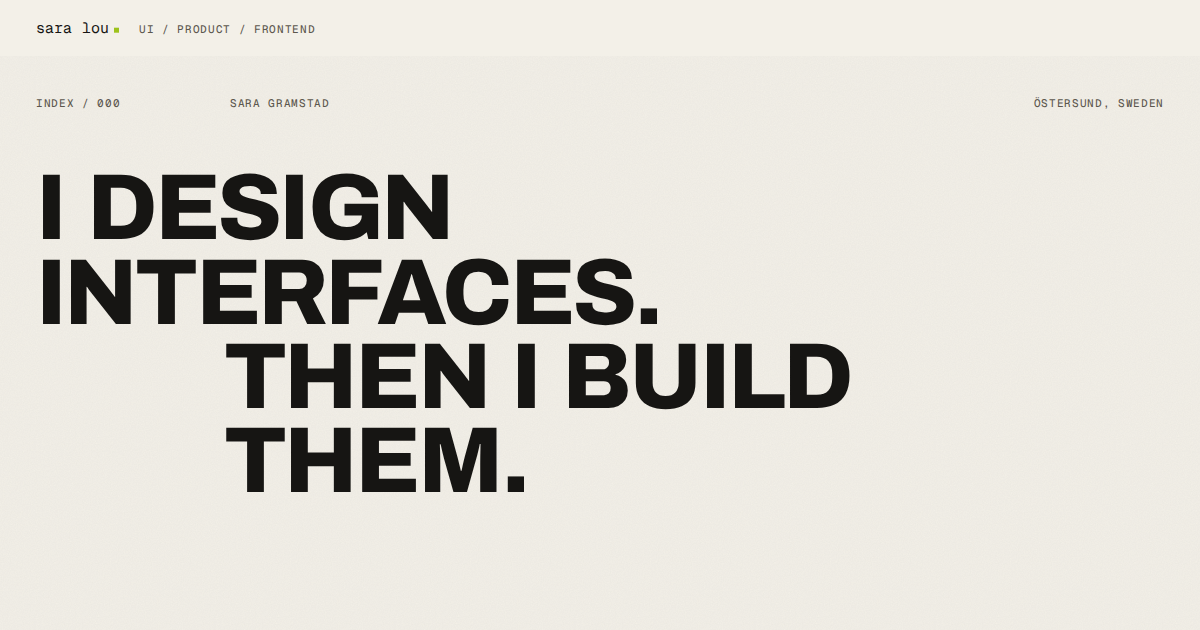
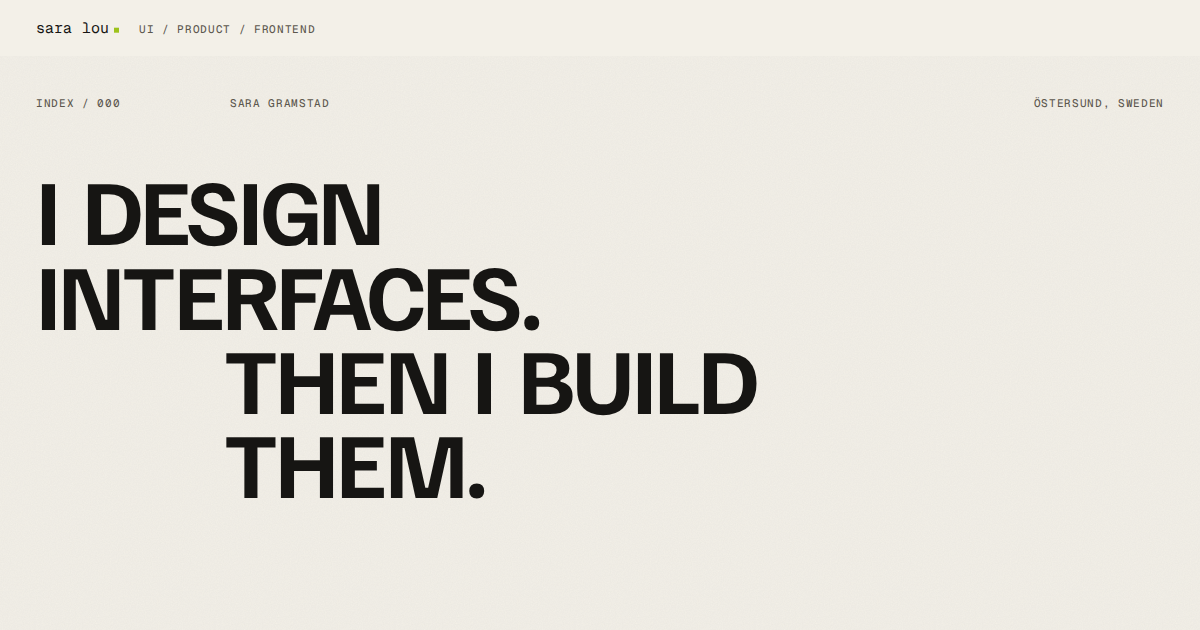
Swap display font to Familjen Grotesk Bold (free stand-in for Mabry)
Archivo read too wide; Familjen Grotesk 700 is narrower with the same
slightly odd, notched character as Mabry. Preload the 11.8 KB latin
woff2, regenerate the OG image, and update BRAND/README. The OG
description now matches the current hero line.

Claude-Session: https://claude.ai/code/session_011K1qsvehvz2pY9Y4J7gqbK

Changed region(s): [[0.0308, 0.2714, 0.7092, 0.8143]]

diff --git a/src/styles/globals.css b/src/styles/globals.css
@@ -2,7 +2,7 @@
 @import 'tw-animate-css';
 @import '@fontsource-variable/geist/wght.css';
 @import '@fontsource-variable/geist-mono/wght.css';
-@import '@fontsource-variable/archivo/wght.css';
+@import '@fontsource/familjen-grotesk/700.css';
 
 /* ==========================================================================
    Design tokens
@@ -112,7 +112,7 @@
   --spacing-nudge: var(--nudge);
 
   /* Type families: a bold grotesk for display, sans for reading, mono for the system voice */
-  --font-display: 'Archivo Variable', 'Arial Black', ui-sans-serif, system-ui, sans-serif;
+  --font-display: 'Familjen Grotesk', 'Helvetica Neue', Arial, ui-sans-serif, sans-serif; /* free stand-in for Mabry Bold */
   --font-sans: 'Geist Variable', ui-sans-serif, system-ui, sans-serif;
   --font-mono: 'Geist Mono Variable', ui-monospace, 'SF Mono', Menlo, monospace;
 
@@ -281,7 +281,7 @@
 /* The display voice: bold uppercase grotesk. Pair with a text-display-* size. */
 @utility type-display {
   font-family: var(--font-display);
-  font-weight: 800;
+  font-weight: 700;
   text-transform: uppercase;
   font-kerning: normal;
   word-spacing: 0.08em; /* bold caps with tight tracking swallow their word spaces */

diff --git a/src/components/ui/button.tsx b/src/components/ui/button.tsx
@@ -7,7 +7,7 @@ import { cn } from '@/lib/utils'
 const buttonVariants = cva(
   [
     'group/button relative inline-flex shrink-0 cursor-pointer items-center justify-center gap-2 whitespace-nowrap select-none',
-    'rounded-full font-display font-extrabold uppercase tracking-[-0.005em] [word-spacing:0.12em]',
+    'rounded-full font-display font-bold uppercase tracking-[-0.005em] [word-spacing:0.12em]',
     'transition-[background-color,color,border-color,transform] duration-fast ease-out-soft',
     // a small, mechanical snap on press
     'active:translate-y-px active:scale-[0.98] disabled:pointer-events-none disabled:opacity-50',

diff --git a/src/components/layout/site-footer.tsx b/src/components/layout/site-footer.tsx
@@ -76,7 +76,7 @@ export function SiteFooter() {
           <h2 className="type-label text-ink-muted">Colophon</h2>
           <p className="mt-4 max-w-sm text-small text-ink-muted">
             Built with React, TypeScript, Vite, Tailwind and a little GSAP. Set in{' '}
-            <span className="font-display font-extrabold text-ink uppercase">Archivo</span>, Geist and{' '}
+            <span className="font-display font-bold text-ink uppercase">Familjen Grotesk</span>, Geist and{' '}
             <span className="font-mono text-[0.9em] text-ink">Geist Mono</span>.
           </p>
         </div>

diff --git a/index.html b/index.html
@@ -12,7 +12,7 @@
     <meta property="og:type" content="website" />
     <meta property="og:site_name" content="sara lou" />
     <meta property="og:title" content="sara lou — UI / Product / Frontend" />
-    <meta property="og:description" content="Sara Gramstad. Designer. Builder. Detail person." />
+    <meta property="og:description" content="Sara Gramstad. I design interfaces. Then I build them." />
     <meta property="og:image" content="%BASE_URL%og.png" />
     <meta name="twitter:card" content="summary_large_image" />
     <link rel="icon" type="image/svg+xml" href="/favicon.svg" />

diff --git a/vite.config.ts b/vite.config.ts
@@ -36,7 +36,7 @@ export default defineConfig({
   plugins: [
     react(),
     tailwindcss(),
-    preloadCriticalFonts([/archivo-latin-wght-normal/, /geist-latin-wght-normal/]),
+    preloadCriticalFonts([/familjen-grotesk-latin-700-normal/, /geist-latin-wght-normal/]),
   ],
   resolve: {
     alias: { '@': fileURLToPath(new URL('./src', import.meta.url)) },

diff --git a/BRAND.md b/BRAND.md
@@ -3,7 +3,7 @@
 > A small, very well-made corner of the internet belonging to Sara Gramstad.
 > A little precise. A little strange. Not trying to impress you.
 
-**v3:** the serif is gone. Instrument Serif read as "2020 soft creative director", so display type is now **Archivo, extra-bold, uppercase**, taking its cue from Designlab's CTA blocks without the blue. The contact section is a solid ink block with an acid pill button. And every line on the site went through a bullshit audit (see Voice).
+**v3:** the serif is gone. Instrument Serif read as "2020 soft creative director", so display type is now **Familjen Grotesk Bold, uppercase** (a free stand-in for Mabry Bold; Archivo was tried first and was too wide), taking its cue from Designlab's CTA blocks without the blue. The contact section is a solid ink block with an acid pill button. And every line on the site went through a bullshit audit (see Voice).
 
 **v2 was a correction.** v1 drifted soft: a cute serif wordmark, a pastel dot, slogans ("details, yes · ceremony, no"), a sign-off like a café menu. v2 returns to what was actually distinctive, the intro screen:
 
@@ -95,7 +95,7 @@ The green should feel almost accidental: a tiny LED, one active state, one hover
 
 ## Typography
 
-- **Archivo, 800, UPPERCASE** (`type-display`): headlines, project titles, buttons. Bold, plain, slightly wide, like a label on a box
+- **Familjen Grotesk, 700, UPPERCASE** (`type-display`): headlines, project titles, buttons. Bold, slightly odd, notched corners. To switch to Mabry Bold with a web licence, change `--font-display` and the font import
 - **Geist Mono:** the name, the system voice, every number
 - **Geist:** reading
 
@@ -123,4 +123,4 @@ Quick, exact, slightly mechanical. Short durations (120 / 200 / 360 ms), `power4
 
 ## The test
 
-Cover the name. Is it still recognisable? It should be, by the mono lockup, the numbering, the LED, the ink page turn with an index on it, and the deadpan serif headline over hard facts.
+Cover the name. Is it still recognisable? It should be, by the mono lockup, the numbering, the LED, the ink page turn with an index on it, and the bold caps headline over hard facts.

diff --git a/README.md b/README.md
@@ -173,7 +173,7 @@ When adding a custom token, also add it to `extendTailwindMerge` in `src/lib/uti
 ## Design tokens
 
 - **Colour:** `paper`, `paper-raised`, `paper-sunken`, `ink`, `ink-muted`, `ink-faint`, `rule`, `rule-strong`, and one acid-green `accent` for status LEDs and selection, plus `accent-ink` for the rare accent *text*. Never put text in `accent` on paper. All text tokens are ≥ 4.5:1 on paper.
-- **Type:** three families with fixed roles. *Archivo* (extra-bold caps, via `type-display`) for display, *Geist* for reading, *Geist Mono* for metadata. A fluid scale: `text-display-xl/lg/md/sm`, `text-title`, `text-lead`, `text-body`, `text-small`, `text-meta`, `text-micro`, `text-nano`.
+- **Type:** three families with fixed roles. *Familjen Grotesk* (bold caps, via `type-display`; a free stand-in for Mabry Bold) for display, *Geist* for reading, *Geist Mono* for metadata. A fluid scale: `text-display-xl/lg/md/sm`, `text-title`, `text-lead`, `text-body`, `text-small`, `text-meta`, `text-micro`, `text-nano`.
 - **Radius / shadow:** `rounded-xs…xl` (crisp by default; `lg` only on iOS-style panels), `shadow-paper/lift/float`.
 
 shadcn/ui components in use: **Button, Sheet** (mobile menu), **Dialog + Command** (⌘K menu), plus a small `Kbd`. `components.json` is set up, so `npx shadcn@latest add <component>` works.
